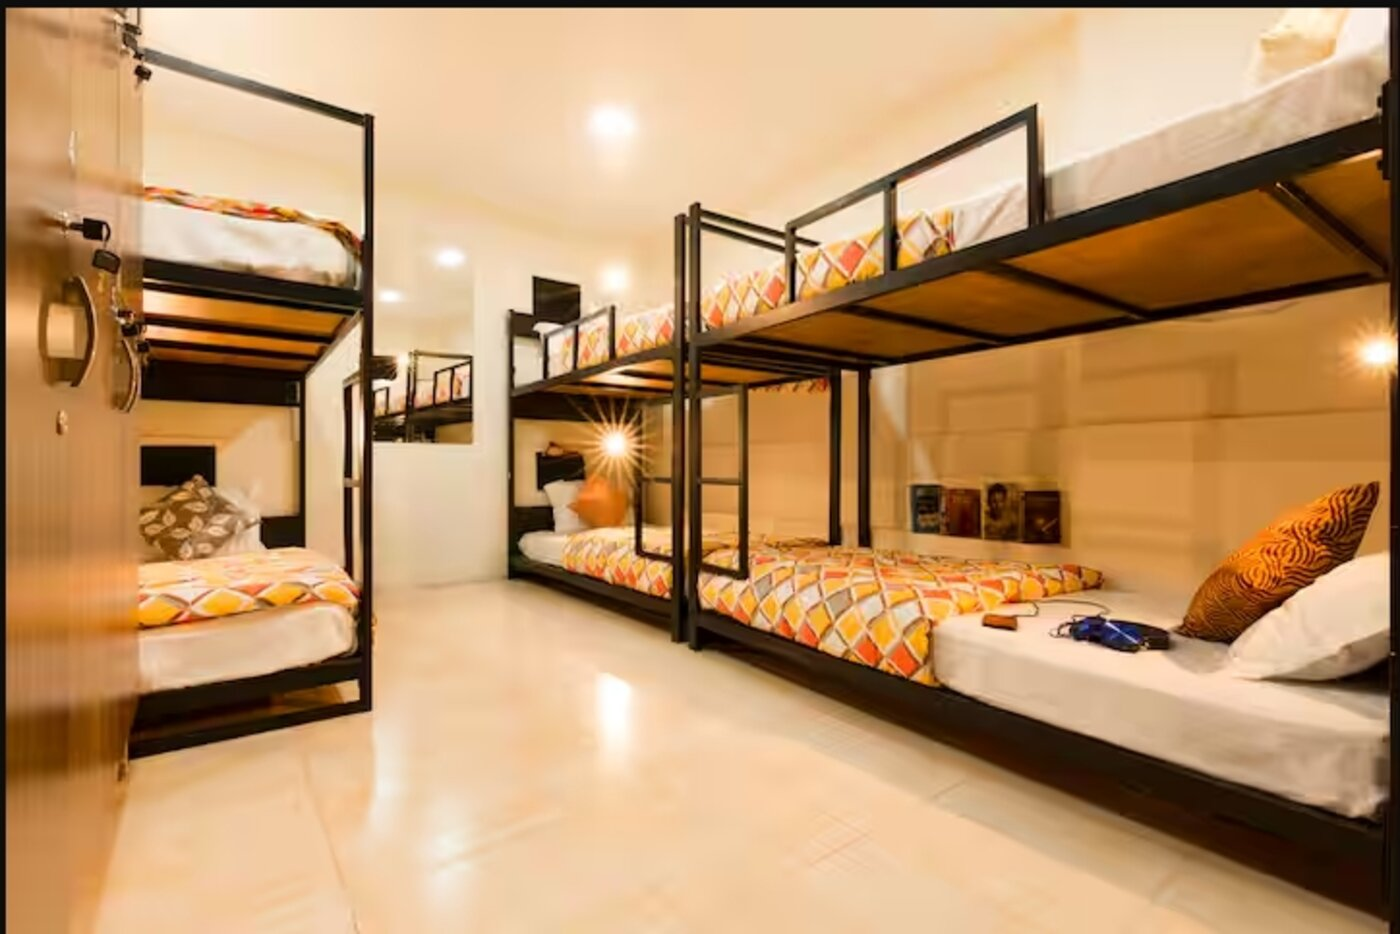
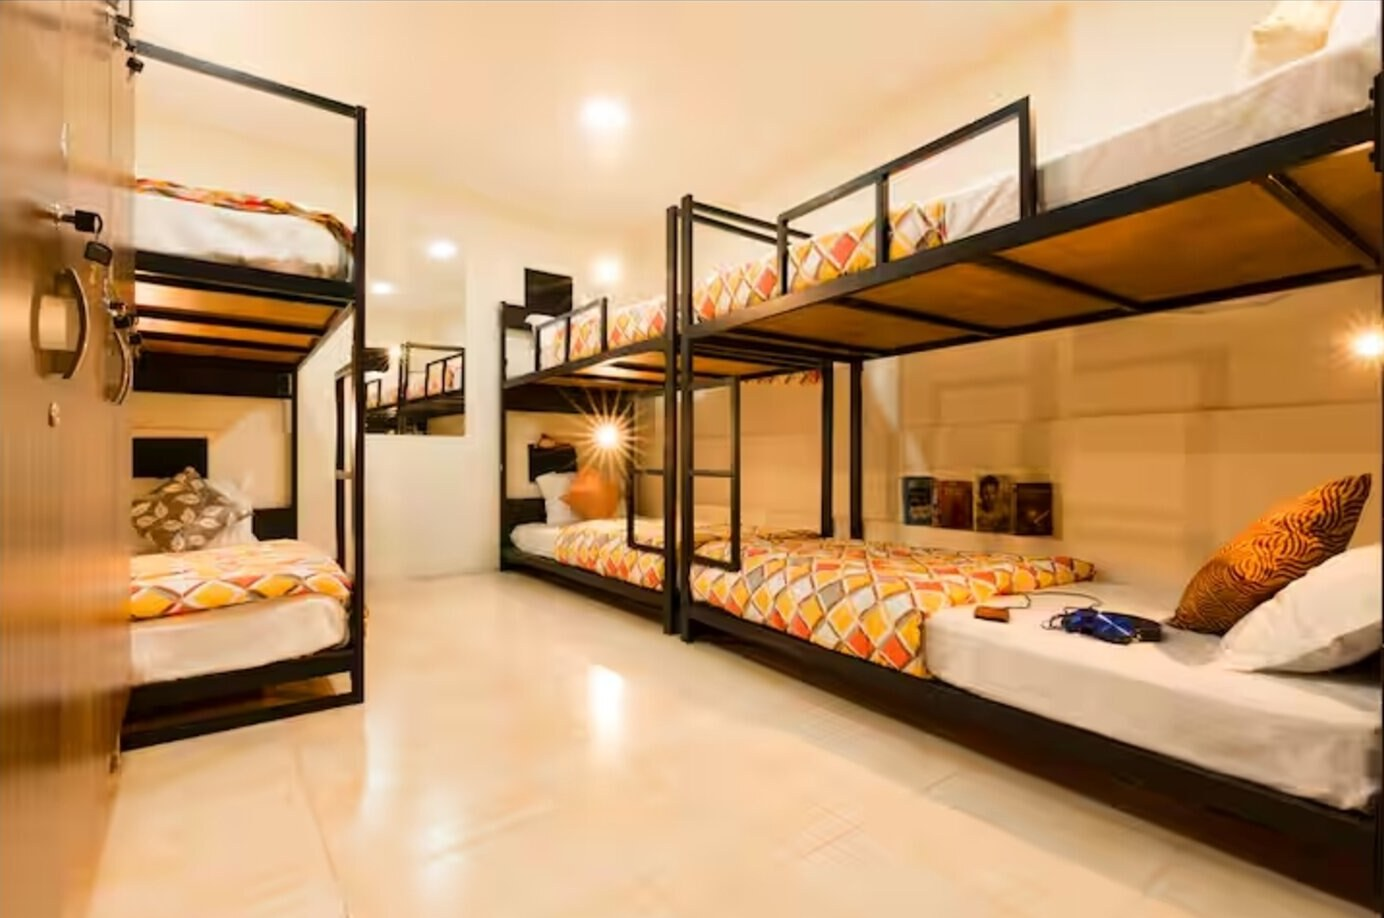
Pre-deploy fixes: SSL config, trust proxy, cleaned-up login pages

diff --git a/frontend/owner-login.html b/frontend/owner-login.html
@@ -18,37 +18,32 @@
   </nav>
 
   <div class="auth-split">
-    <div class="auth-visual" style="background-image: url('images/auth-photo.jpg')">
-      <div class="auth-visual-overlay">
-        <p>"List your hostel, reach students actively searching near campus."</p>
-      </div>
-    </div>
-
+    <div class="auth-visual" style="background-image: url('images/auth-photo.jpg')"></div>
     <div class="auth-form-side">
-      <div class="auth-card">
-        <h1>Hostel Owner Login</h1>
-        <p class="sub">Sign in to manage your hostel listings, rooms, and availability.</p>
+    <div class="auth-card">
+      <h1>Hostel Owner Login</h1>
+      <p class="sub">Sign in to manage your hostel listings, rooms, and availability.</p>
 
-        <div class="error-msg" id="errorMsg"></div>
+      <div class="error-msg" id="errorMsg"></div>
 
-        <form id="signinForm" data-expected-role="owner">
-          <div class="field">
-            <label for="email">Email</label>
-            <input type="email" id="email" required placeholder="you@example.com" />
+      <form id="signinForm" data-expected-role="owner">
+        <div class="field">
+          <label for="email">Email</label>
+          <input type="email" id="email" required placeholder="you@example.com" />
+        </div>
+        <div class="field">
+          <label for="password">Password</label>
+          <input type="password" id="password" required placeholder="••••••••" />
+          <div style="text-align: right; margin-top: 6px;">
+            <a href="forgot-password.html" style="font-size: 13px; color: var(--green); font-weight: 600;">Forgot password?</a>
           </div>
-          <div class="field">
-            <label for="password">Password</label>
-            <input type="password" id="password" required placeholder="••••••••" />
-            <div style="text-align: right; margin-top: 6px;">
-              <a href="forgot-password.html" style="font-size: 13px; color: var(--green); font-weight: 600;">Forgot password?</a>
-            </div>
-          </div>
-          <button type="submit" class="btn btn-primary full-width">Sign in to Owner Portal</button>
-        </form>
+        </div>
+        <button type="submit" class="btn btn-primary full-width">Sign in to Owner Portal</button>
+      </form>
 
-        <p class="auth-switch">New hostel owner? <a href="signup.html?role=owner">List your hostel</a></p>
-        <p class="auth-switch" style="margin-top:6px;">Looking for a hostel to live in? <a href="student-login.html">Student Sign In</a></p>
-      </div>
+      <p class="auth-switch">New hostel owner? <a href="signup.html?role=owner">List your hostel</a></p>
+      <p class="auth-switch" style="margin-top:6px;">Looking for a hostel to live in? <a href="student-login.html">Student Sign In</a></p>
+    </div>
     </div>
   </div>
 

diff --git a/frontend/student-login.html b/frontend/student-login.html
@@ -18,37 +18,32 @@
   </nav>
 
   <div class="auth-split">
-    <div class="auth-visual" style="background-image: url('images/auth-photo.jpg')">
-      <div class="auth-visual-overlay">
-        <p>"Verified hostels, real photos, no surprises."</p>
-      </div>
-    </div>
-
+    <div class="auth-visual" style="background-image: url('images/auth-photo.jpg')"></div>
     <div class="auth-form-side">
-      <div class="auth-card">
-        <h1>Student Sign In</h1>
-        <p class="sub">Sign in to book hostels, save favourites, and manage your bookings.</p>
+    <div class="auth-card">
+      <h1>Student Sign In</h1>
+      <p class="sub">Sign in to book hostels, save favourites, and manage your bookings.</p>
 
-        <div class="error-msg" id="errorMsg"></div>
+      <div class="error-msg" id="errorMsg"></div>
 
-        <form id="signinForm" data-expected-role="student">
-          <div class="field">
-            <label for="email">Email</label>
-            <input type="email" id="email" required placeholder="you@example.com" />
+      <form id="signinForm" data-expected-role="student">
+        <div class="field">
+          <label for="email">Email</label>
+          <input type="email" id="email" required placeholder="you@example.com" />
+        </div>
+        <div class="field">
+          <label for="password">Password</label>
+          <input type="password" id="password" required placeholder="••••••••" />
+          <div style="text-align: right; margin-top: 6px;">
+            <a href="forgot-password.html" style="font-size: 13px; color: var(--green); font-weight: 600;">Forgot password?</a>
           </div>
-          <div class="field">
-            <label for="password">Password</label>
-            <input type="password" id="password" required placeholder="••••••••" />
-            <div style="text-align: right; margin-top: 6px;">
-              <a href="forgot-password.html" style="font-size: 13px; color: var(--green); font-weight: 600;">Forgot password?</a>
-            </div>
-          </div>
-          <button type="submit" class="btn btn-primary full-width">Sign in</button>
-        </form>
+        </div>
+        <button type="submit" class="btn btn-primary full-width">Sign in</button>
+      </form>
 
-        <p class="auth-switch">Don't have an account? <a href="signup.html">Create one</a></p>
-        <p class="auth-switch" style="margin-top:6px;">Are you a hostel owner? <a href="owner-login.html">Owner Login</a></p>
-      </div>
+      <p class="auth-switch">Don't have an account? <a href="signup.html">Create one</a></p>
+      <p class="auth-switch" style="margin-top:6px;">Are you a hostel owner? <a href="owner-login.html">Owner Login</a></p>
+    </div>
     </div>
   </div>
 

diff --git a/backend/server.js b/backend/server.js
@@ -16,6 +16,15 @@ const chatRoutes = require('./routes/chat');
 
 const app = express();
 
+// Railway/Render (and most hosts) terminate HTTPS at a reverse proxy and
+// forward plain HTTP to this server, setting an X-Forwarded-Proto header
+// to say so. Without this, req.protocol always reports 'http' once
+// deployed — even on a real https:// site — which would make password
+// reset emails and Paystack payment callback links wrongly use http://.
+// Harmless locally: there's no proxy in front of localhost, so this has
+// no effect there.
+app.set('trust proxy', 1);
+
 app.use(cors());              // allows the frontend to call this API
 app.use(express.json({
   verify: (req, res, buf) => {

diff --git a/backend/db.js b/backend/db.js
@@ -4,8 +4,16 @@
 require('dotenv').config();
 const { Pool } = require('pg');
 
+// Hosted Postgres providers (Render, Railway, etc.) require SSL on external
+// connections; your local Postgres on localhost does not use SSL at all.
+// This switches automatically based on the host in DATABASE_URL, so the
+// exact same code works unchanged in both places.
+const isLocal = (process.env.DATABASE_URL || '').includes('localhost')
+  || (process.env.DATABASE_URL || '').includes('127.0.0.1');
+
 const pool = new Pool({
   connectionString: process.env.DATABASE_URL,
+  ssl: isLocal ? false : { rejectUnauthorized: false },
 });
 
 pool.on('connect', () => {
